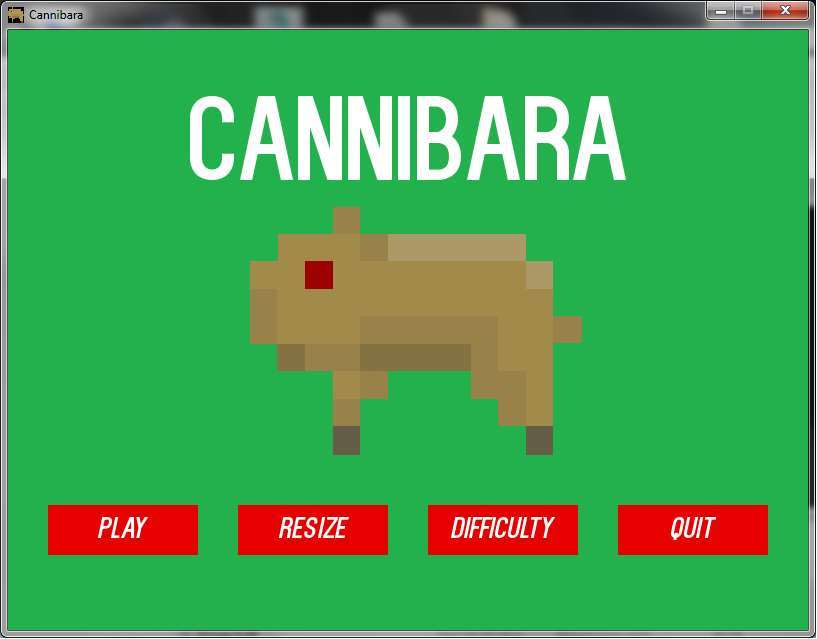
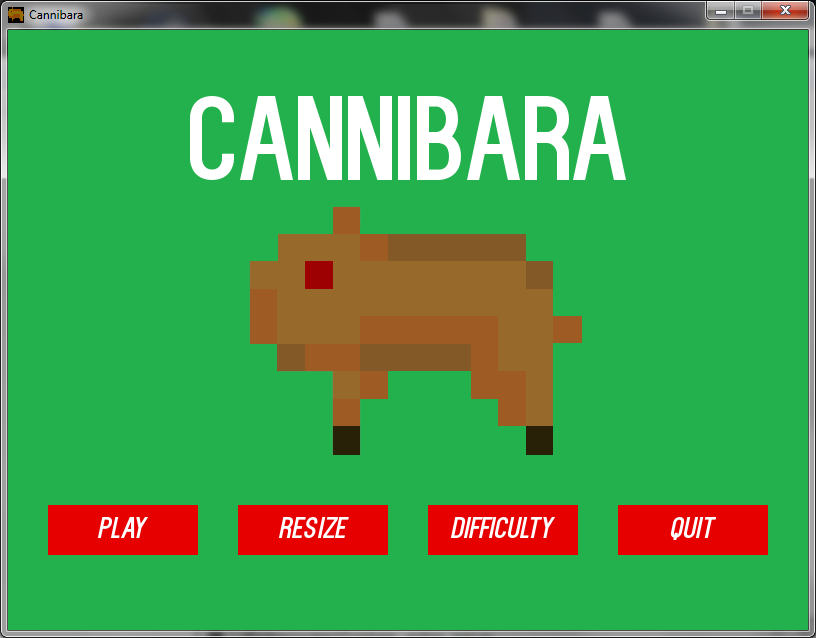
New graphics

diff --git a/README.md b/README.md
@@ -13,12 +13,12 @@ WSAD/strzałki - ruch, 'p' - pauza, 'esc' - natychmiasowe zamknięcie aplikacji
     
 Projekt wykonany z wykorzystaniem Pythona 3.4 oraz PyGame 1.9.2a0 dla Pythona 3.4 w celu nauki tych technologii.
 
-![alt text](screenshots/c_02.png "Some play")
+![alt text](screenshots/c_02.png "During play")
 
 #
 Katalog z plikami wykonywalnymi dostępny tutaj: 
 
-https://my.pcloud.com/publink/show?code=XZQpDQ7ZPxT1QhWrsWhtw05lQoiukL3nJuay
+https://my.pcloud.com/publink/show?code=XZRaOQ7Zc5kq2sHfafbB6uJ5GK1vqu2vtsL7
 
 Instrukcja: wypakuj plik zip i uruchom main.exe 
 
@@ -38,6 +38,6 @@ Project made using Python 3.4 and PyGame 1.9.2a0 for Python 3.4  in order to lea
 
 Catalog with executable files available here:
 
-https://my.pcloud.com/publink/show?code=XZQpDQ7ZPxT1QhWrsWhtw05lQoiukL3nJuay
+https://my.pcloud.com/publink/show?code=XZRaOQ7Zc5kq2sHfafbB6uJ5GK1vqu2vtsL7
 
 Instructions: extract the zip file and run main.exe
